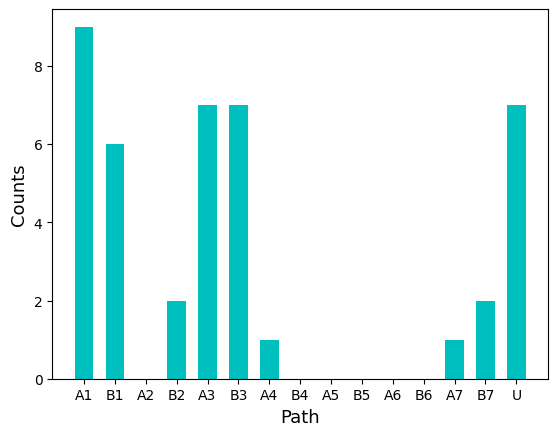
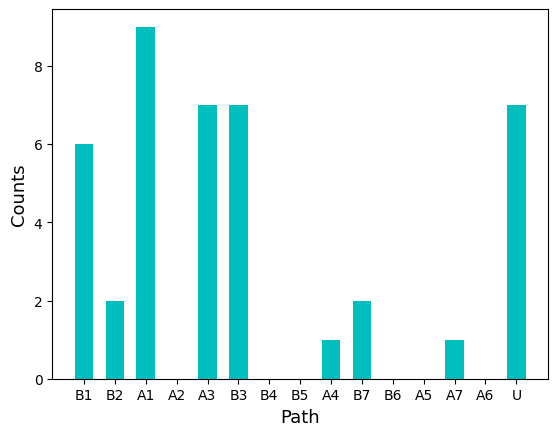
cmd

diff --git a/README.md b/README.md
@@ -185,7 +185,7 @@ anal_hfo2 =  trajectory.Analyzer(traj=traj)
 
 2. Specify the hopping paths manually:
 
-Since VacHopPy classifies the hopping paths based on distance, it is crucial to provide accurate distance values. (Defaults tolerance = 0.001)
+Since VacHopPy classifies the hopping paths based on distance, it is crucial to provide accurate distance values (defaults tolerance = 0.001).
 ```ruby
 final_A = ['cn4', 'cn3', 'cn3', 'cn3', 'cn4', 'cn4', 'cn4']
 final_B = ['cn3', 'cn4', 'cn4', 'cn4', 'cn3', 'cn3', 'cn3']
@@ -200,13 +200,18 @@ for i in range(7):
     anal_hfo2.add_path(f"A{i+1}", 'cn3', final_A[i], d_A[i], Ea_A[i])
     anal_hfo2.add_path(f"B{i+1}", 'cn4', final_B[i], d_B[i], Ea_B[i])
 
-anal_hfo2.print_path() # the path data will be printed.
 ```
-<br/>
 
-3. Specify type of lattice porints:
-   
-The type of lattice points should be manually specified.
+3. Print path data
+Print the path data to verify the added paths.
+```ruby
+anal_hfo2.print_path()
+```
+
+4. Specify type of lattice points:
+
+Manually specify the type of lattice points. The kinds of type can vary depending on the material.
+
 ```ruby
 for lat_p in anal_hfo2.lat_points:
     x_coord = lat_p['coord'][0]
@@ -215,11 +220,70 @@ for lat_p in anal_hfo2.lat_points:
     else:
         lat_p['site'] = 'cn3'
 ```
+
 ### Get hopping paths of vacancy
 When the `Analyzer.search_path_vac()` method is executed, VacHopPy will search for hopping paths at each step based on distance data provided.
 
 ```ruby
 anal_hfo2.search_path_vac()
+anal_hfo2.print_summary(sort=True)
+```
+
+This command will display the hopping sequence and the bar graph for path distribution. With `sort=True`, the paths are sorted according to the hopping barriers (E<SUB>a</SUB>).
+```
+# Example results
+unknown steps are detected.: [116, 118, 125, 127, 186, 246, 247]
+xdatcar file : data/XDATCAR_01
+poscar_per file: data/POSCAR_novac
+
+total counts : 42
+hopping sequence :
+A3 A3 A3 A3 A1 B1 A1 B2 B2 B1 A3 A1 B1 A3 A3 A4 A1 B7 A1 unknown unknown A1 unknown unknown B1 A1 B1 unknown A1 B3 B3 B3 B3 B3 B3 unknown unknown B7 A7 B1 A1 B3 
+maximum Ea : 2.01 eV
+```
+<div align=center>
+<p>
+    <img src="./imgs/counts_before.png" width="550" height="412" /> 
+</p>
+</div>
+
+Note that 7 unknown paths were observed. The main cause of the unknown path is **multi-path issue**. For example, below is snapshot at step 246, showing that two sequential hopping, 19(purple) ➔ 25(green) and 25(green) ➔ 1(yellow), take place during one step. However, since VacHopPy determines the displacement of vacancy in step-wise manner, the code interprets the vacancy as moving directly 19(pulple) ➔ 1(yellow).
+
+<div align=center>
+<p>
+    <img src="./imgs/snapshot_246.png" width="550" height="412" /> 
+</p>
+</div>
+
+### Correction for multi-path issue
+
+The multi-path issue can be addressed by using `Analyze.unwrap_path()` method, which recursively decomposes the multi-paths. This method can smartly find a possible path of vacancy by considering both connectivity and direction of arrows.
+
+```ruby
+anal_hfo2.unwrap_path()
+anal_hfo2.print_summary()
+```
+
+By executing this commands, the user can obtain renewed explanations and a bar graph.
+
+```
+unknown path exist.
+step: 246 247 
+
+xdatcar file : data/XDATCAR_01
+poscar_per file: data/POSCAR_novac
+
+total counts : 43
+hopping sequence :
+A3 A3 A3 A3 A1 B1 A1 B2 B2 B1 A3 A1 B1 A3 A3 A4 A1 B7 A1 B5 A3 A3 A3 A1 B1 A1 B1 A1 B3 B3 B3 B3 B3 B3 unknown B3 B3 unknown B7 A7 B1 A1 B3 
+maximum Ea : 2.01 eV
 ```
 
 
+<div align=center>
+<p>
+    <img src="./imgs/counts_after.png" width="550" height="412" /> 
+</p>
+</div>
+
+The number of unknown paths was reduced from 7 to 2, and the total hopping counts increased from 42 to 43 (125, 127 unknown path가 사라짐. code 수정 필요). 
